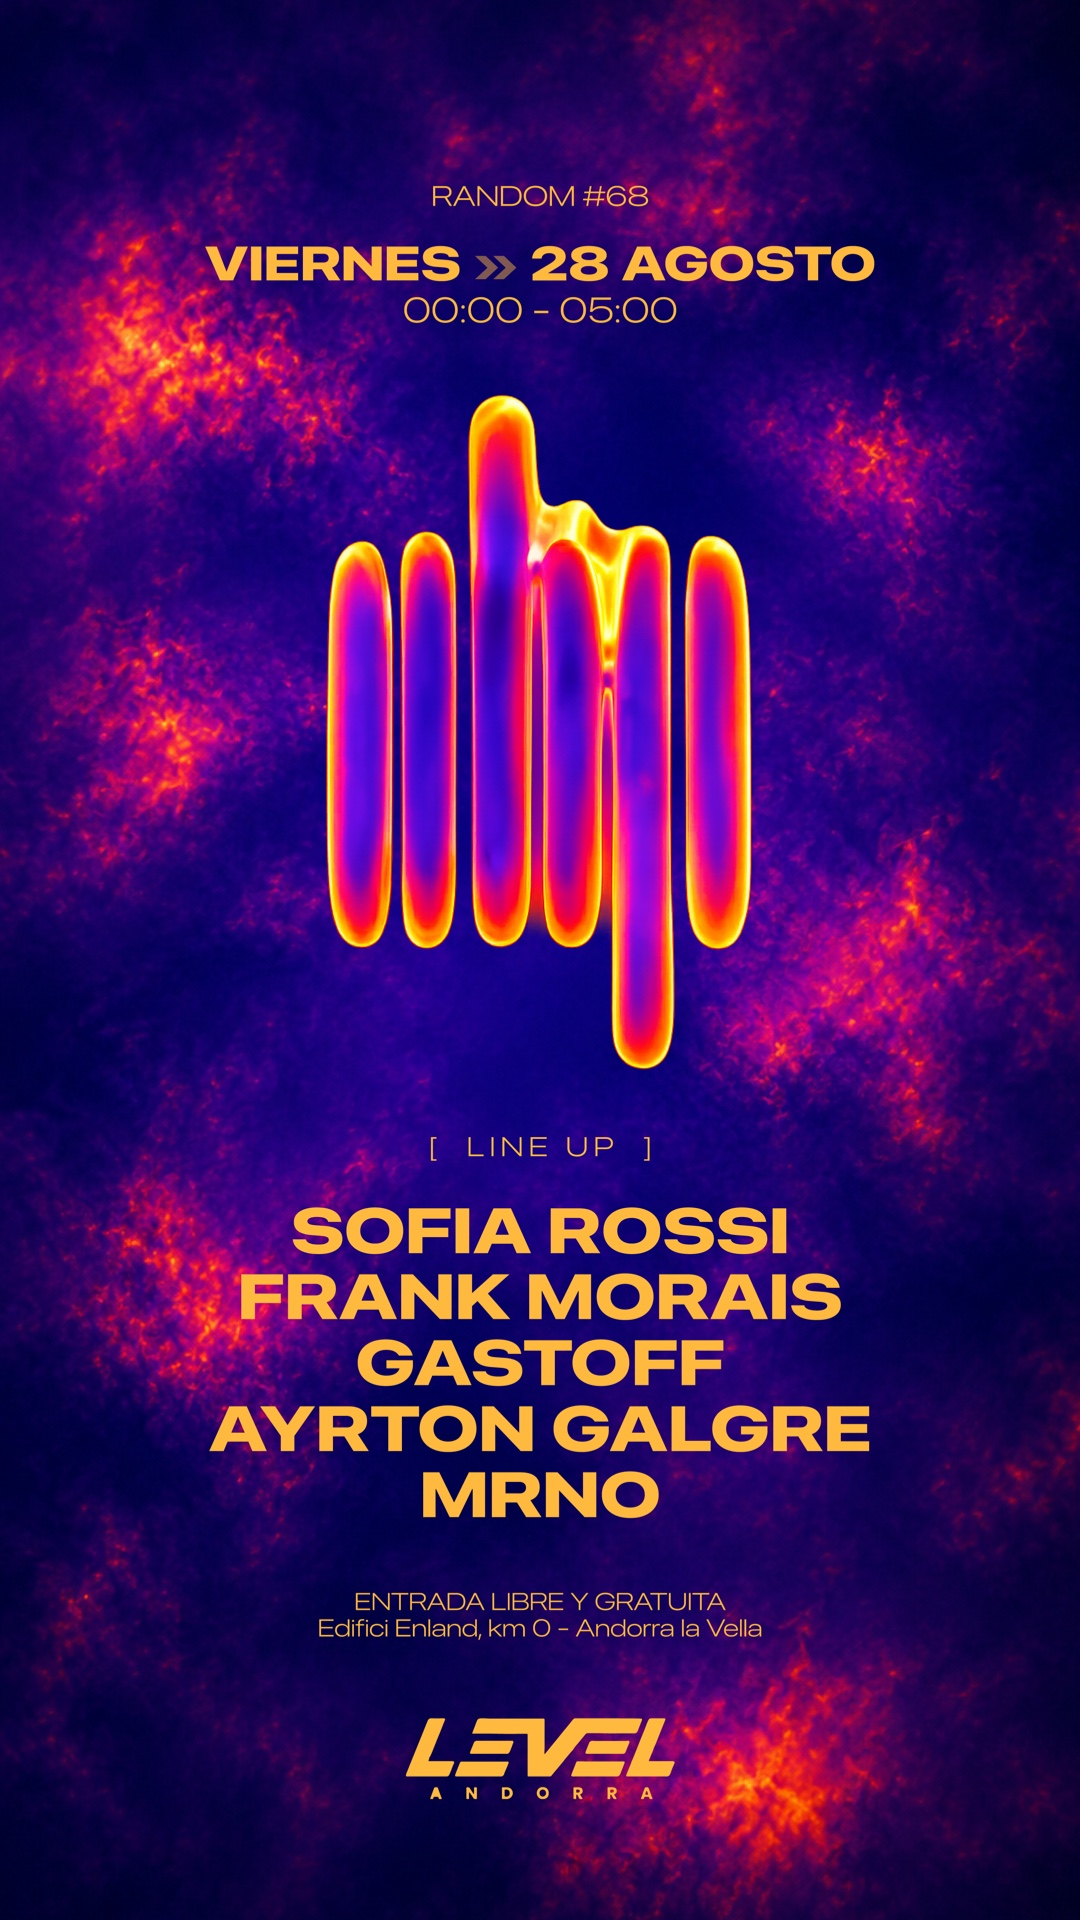
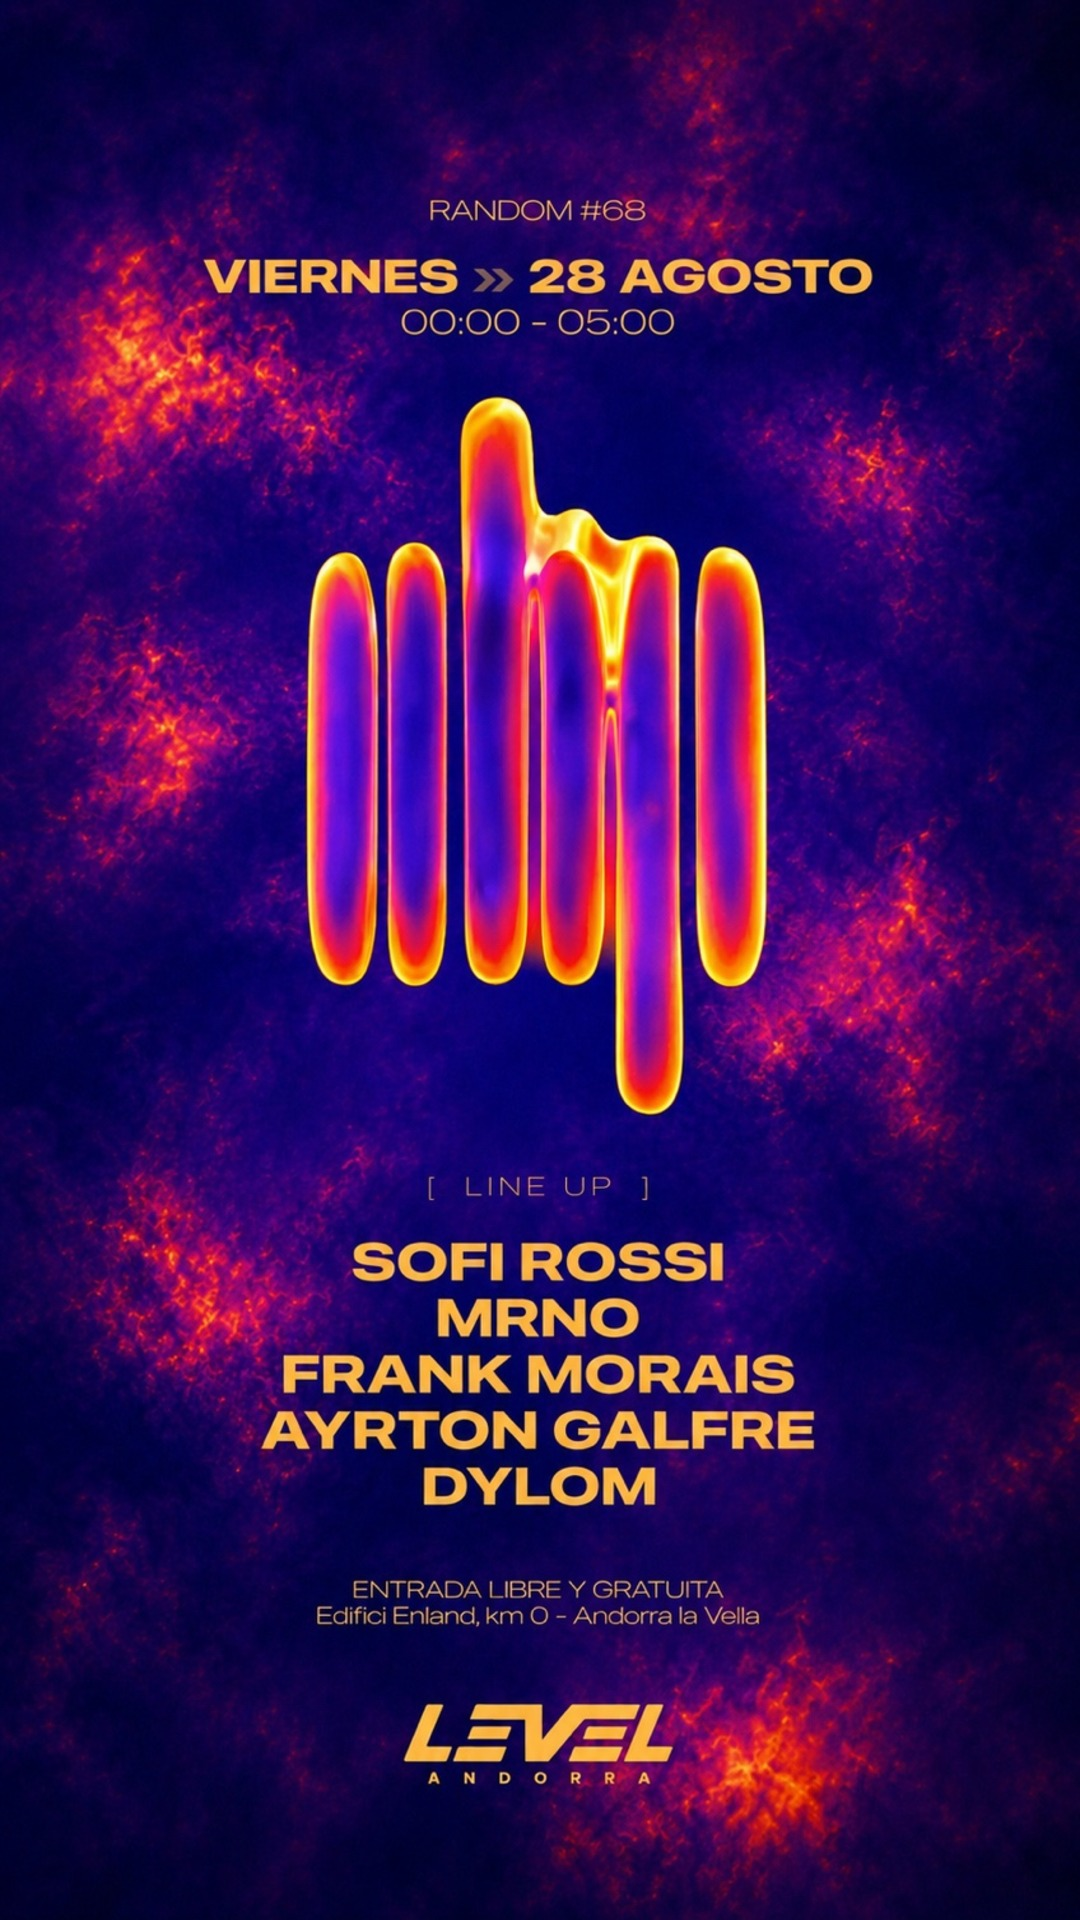
Update RANDOM #68 lineup and flyers

diff --git a/docs/ediciones/68-termica/index.html b/docs/ediciones/68-termica/index.html
@@ -4,14 +4,14 @@
     <meta charset="UTF-8" />
     <meta name="viewport" content="width=device-width, initial-scale=1" />
     <meta name="theme-color" content="#070707" />
-    <meta name="description" content="RANDOM #68 · TÉRMICA. VIERNES 28 AGOSTO 2026 en LEVEL. Line-up: MRNO · AYRTON GALFRÉ · GASTOFF · SOFIA ROSSI · FRANK MORAIS." />
+    <meta name="description" content="RANDOM #68 · TÉRMICA. VIERNES 28 AGOSTO 2026 en LEVEL. Line-up: MRNO · AYRTON GALFRÉ · DYLOM · SOFIA ROSSI · FRANK MORAIS." />
     <link rel="canonical" href="https://randomelectronic.com/ediciones/68-termica/" />
     <meta property="og:type" content="website" />
     <meta property="og:site_name" content="RANDOM" />
     <meta property="og:url" content="https://randomelectronic.com/ediciones/68-termica/" />
     <meta property="og:title" content="RANDOM #68 · TÉRMICA — 28 Agosto 2026" />
-    <meta property="og:description" content="RANDOM #68 · TÉRMICA. VIERNES 28 AGOSTO 2026 en LEVEL. Line-up: MRNO · AYRTON GALFRÉ · GASTOFF · SOFIA ROSSI · FRANK MORAIS." />
-    <meta property="og:image" content="https://randomelectronic.com/assets/random-68.webp" />
+    <meta property="og:description" content="RANDOM #68 · TÉRMICA. VIERNES 28 AGOSTO 2026 en LEVEL. Line-up: MRNO · AYRTON GALFRÉ · DYLOM · SOFIA ROSSI · FRANK MORAIS." />
+    <meta property="og:image" content="https://randomelectronic.com/assets/random-68.webp?v=20260826-1" />
     <meta name="twitter:card" content="summary_large_image" />
     <link rel="icon" href="/assets/favicon.ico" sizes="16x16 32x32 48x48" />
     <link rel="apple-touch-icon" href="/assets/apple-touch-icon.png" />
@@ -19,7 +19,7 @@
     <link rel="preconnect" href="https://fonts.gstatic.com" crossorigin />
     <link rel="stylesheet" href="https://fonts.googleapis.com/css2?family=Sora:wght@400;600;700;800&family=JetBrains+Mono:wght@400;500&display=swap" />
     <link rel="stylesheet" href="/edition.css" />
-    <script type="application/ld+json">{"@context":"https://schema.org","@graph":[{"@type":"Organization","@id":"https://randomelectronic.com/#organization","name":"RANDOM","url":"https://randomelectronic.com/","logo":"https://randomelectronic.com/assets/random-symbol.png","foundingDate":"2018","email":"randomelectromusic@gmail.com","sameAs":["https://www.instagram.com/random.electronic/"]},{"@type":"Event","@id":"https://randomelectronic.com/ediciones/68-termica/#event","name":"RANDOM #68 · TÉRMICA","url":"https://randomelectronic.com/ediciones/68-termica/","image":["https://randomelectronic.com/assets/random-68.webp"],"description":"RANDOM #68 · TÉRMICA. VIERNES 28 AGOSTO 2026 en LEVEL. Line-up: MRNO · AYRTON GALFRÉ · GASTOFF · SOFIA ROSSI · FRANK MORAIS.","eventAttendanceMode":"https://schema.org/OfflineEventAttendanceMode","eventStatus":"https://schema.org/EventScheduled","startDate":"2026-08-29T00:00:00+02:00","location":{"@type":"Place","name":"LEVEL","address":"Edifici Enland, km 0 · Andorra la Vella"},"organizer":{"@id":"https://randomelectronic.com/#organization"},"endDate":"2026-08-29T05:00:00+02:00","performer":[{"@type":"PerformingGroup","name":"MRNO"},{"@type":"PerformingGroup","name":"AYRTON GALFRÉ"},{"@type":"PerformingGroup","name":"GASTOFF"},{"@type":"PerformingGroup","name":"SOFIA ROSSI"},{"@type":"PerformingGroup","name":"FRANK MORAIS"}],"isAccessibleForFree":true}]}</script>
+    <script type="application/ld+json">{"@context":"https://schema.org","@graph":[{"@type":"Organization","@id":"https://randomelectronic.com/#organization","name":"RANDOM","url":"https://randomelectronic.com/","logo":"https://randomelectronic.com/assets/random-symbol.png","foundingDate":"2018","email":"randomelectromusic@gmail.com","sameAs":["https://www.instagram.com/random.electronic/"]},{"@type":"Event","@id":"https://randomelectronic.com/ediciones/68-termica/#event","name":"RANDOM #68 · TÉRMICA","url":"https://randomelectronic.com/ediciones/68-termica/","image":["https://randomelectronic.com/assets/random-68.webp?v=20260826-1"],"description":"RANDOM #68 · TÉRMICA. VIERNES 28 AGOSTO 2026 en LEVEL. Line-up: MRNO · AYRTON GALFRÉ · DYLOM · SOFIA ROSSI · FRANK MORAIS.","eventAttendanceMode":"https://schema.org/OfflineEventAttendanceMode","eventStatus":"https://schema.org/EventScheduled","startDate":"2026-08-29T00:00:00+02:00","location":{"@type":"Place","name":"LEVEL","address":"Edifici Enland, km 0 · Andorra la Vella"},"organizer":{"@id":"https://randomelectronic.com/#organization"},"endDate":"2026-08-29T05:00:00+02:00","performer":[{"@type":"PerformingGroup","name":"MRNO"},{"@type":"PerformingGroup","name":"AYRTON GALFRÉ"},{"@type":"PerformingGroup","name":"DYLOM"},{"@type":"PerformingGroup","name":"SOFIA ROSSI"},{"@type":"PerformingGroup","name":"FRANK MORAIS"}],"isAccessibleForFree":true}]}</script>
     <title>RANDOM #68 · TÉRMICA — 28 Agosto 2026</title>
   </head>
   <body>
@@ -30,14 +30,14 @@
     </header>
     <main id="contenido" class="edition-page">
       <div class="edition-flyer">
-        <img src="/assets/random-68.webp" alt="Flyer de RANDOM #68 · TÉRMICA" />
+        <img src="/assets/random-68.webp?v=20260826-1" alt="Flyer de RANDOM #68 · TÉRMICA" />
       </div>
       <article class="edition-content">
         <p class="edition-kicker">RANDOM #68</p>
         <h1>TÉRMICA</h1>
         <p class="edition-date">VIERNES 28 AGOSTO · 2026</p>
         <p class="edition-meta">00:00 – 05:00 · LEVEL ANDORRA · Edifici Enland, km 0 · Andorra la Vella</p>
-        <section class="edition-schedule" aria-labelledby="lineup"><h2 id="lineup">LINE-UP</h2><ol><li><span>00:00 – 01:00</span><strong>MRNO</strong></li><li><span>01:00 – 02:00</span><strong>AYRTON GALFRÉ</strong></li><li><span>02:00 – 03:00</span><strong>GASTOFF</strong></li><li><span>03:00 – 04:00</span><strong>SOFIA ROSSI</strong></li><li><span>04:00 – 05:00</span><strong>FRANK MORAIS</strong></li></ol></section>
+        <section class="edition-schedule" aria-labelledby="lineup"><h2 id="lineup">LINE-UP</h2><ol><li><span>00:00 – 01:00</span><strong>MRNO</strong></li><li><span>01:00 – 02:00</span><strong>AYRTON GALFRÉ</strong></li><li><span>02:00 – 03:00</span><strong>DYLOM</strong></li><li><span>03:00 – 04:00</span><strong>SOFIA ROSSI</strong></li><li><span>04:00 – 05:00</span><strong>FRANK MORAIS</strong></li></ol></section>
         <div class="edition-actions"><a class="edition-button edition-button--primary" href="https://www.google.com/maps/place/DISCOTECA+LEVEL+ANDORRA/@42.5066451,1.5314267,587m/data=!3m2!1e3!4b1!4m6!3m5!1s0x12a58b00008c03b7:0x97377cd5b09f1c00!8m2!3d42.5066451!4d1.5340016!16s%2Fg%2F11wmtngmrk?entry=ttu&amp;g_ep=EgoyMDI2MDgwNS4xIKXMDSoASAFQAw%3D%3D" target="_blank" rel="noreferrer">CÓMO LLEGAR <span>→</span></a><a class="edition-button" href="/#fechas">PRÓXIMAS FECHAS <span>→</span></a></div>
         <p class="edition-entry">ENTRADA LIBRE Y GRATUITA</p>
       </article>

diff --git a/docs/index.html b/docs/index.html
@@ -1067,11 +1067,11 @@
           >
             <div class="flyer3d" data-card>
               <div class="flyer3d-face flyer3d-face--front">
-                <img src="assets/random-68.webp" data-share-src="assets/share/random-68.jpg" alt="Flyer oficial de RANDOM #68" loading="lazy" />
+                <img src="assets/random-68.webp?v=20260826-1" data-share-src="assets/share/random-68.jpg?v=20260826-1" alt="Flyer oficial de RANDOM #68" loading="lazy" />
                 <span class="flyer3d-edition">#68</span>
               </div>
               <div class="flyer3d-face flyer3d-face--back">
-                <img src="assets/random-68-set-times.webp" data-share-src="assets/share/random-68-set-times.jpg" alt="Flyer con los set times de RANDOM #68" loading="lazy" />
+                <img src="assets/random-68-set-times.webp?v=20260826-1" data-share-src="assets/share/random-68-set-times.jpg?v=20260826-1" alt="Flyer con los set times de RANDOM #68" loading="lazy" />
               </div>
             </div>
             <div class="event-panel event-panel--plasma" data-panel>
@@ -1082,7 +1082,7 @@
               <div class="schedule" aria-label="Set times de RANDOM 68">
                 <div class="schedule-row"><span>00:00 – 01:00</span><strong>MRNO</strong></div>
                 <div class="schedule-row"><span>01:00 – 02:00</span><strong>AYRTON GALFRÉ</strong></div>
-                <div class="schedule-row"><span>02:00 – 03:00</span><strong>GASTOFF</strong></div>
+                <div class="schedule-row"><span>02:00 – 03:00</span><strong>DYLOM</strong></div>
                 <div class="schedule-row"><span>03:00 – 04:00</span><strong>SOFIA ROSSI</strong></div>
                 <div class="schedule-row"><span>04:00 – 05:00</span><strong>FRANK MORAIS</strong></div>
               </div>
